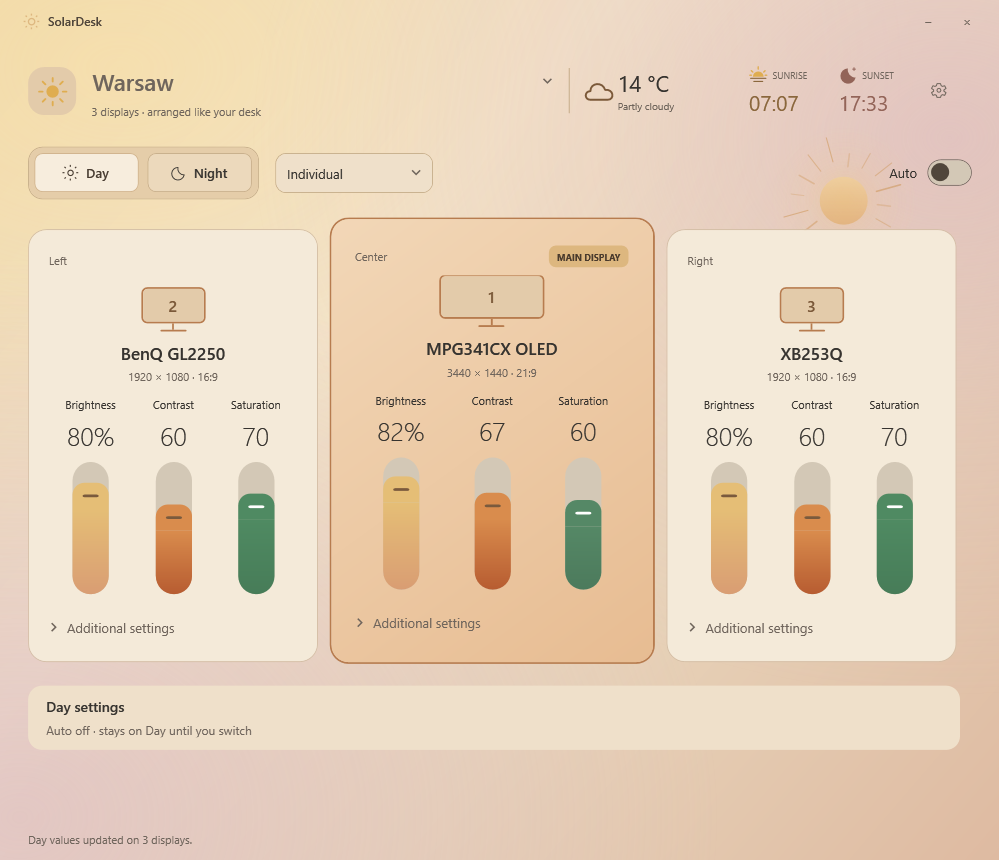
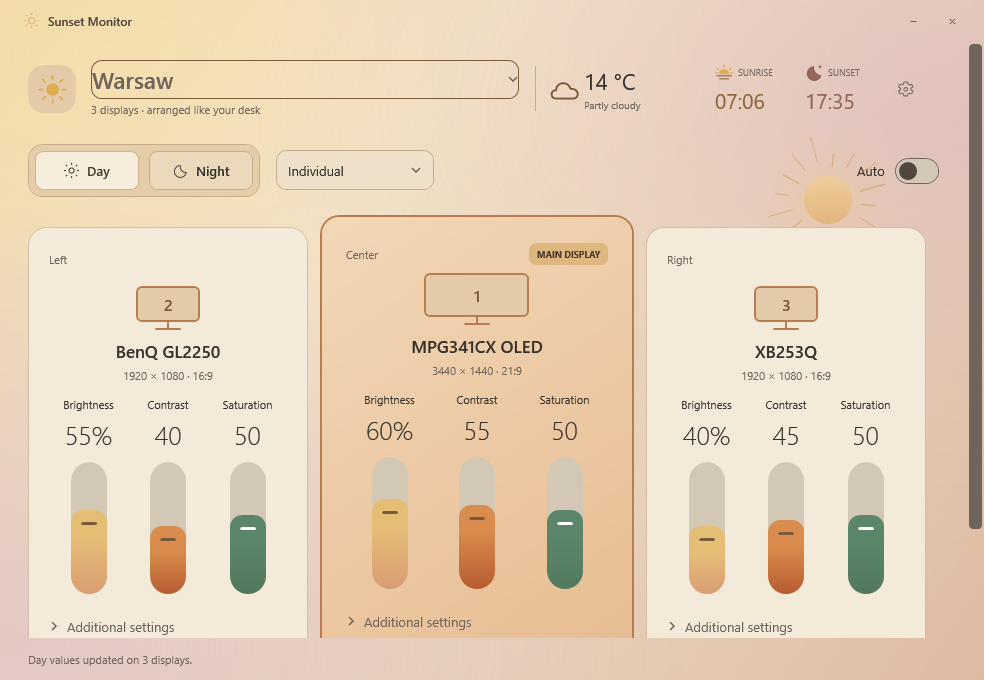
Refresh Sunset Monitor download links and screenshots

diff --git a/README.md b/README.md
@@ -2,11 +2,11 @@
 
 Your monitors, in sync with the sun. Sunset Monitor (formerly SolarDesk) is a Windows tray app with separate Day and Night profiles, smooth sunrise/sunset transitions, and controls for multiple displays.
 
-<a href="https://github.com/WojtekMR3/SolarDesk/releases/download/v2.9.6/SolarDesk-2.9.6-win-x64.zip">
+<a href="https://github.com/WojtekMR3/SunsetMonitor/releases/download/v2.9.7/SunsetMonitor-2.9.7-win-x64.zip">
   <img src="docs/download-windows.svg" alt="Download for Windows" width="280" height="60">
 </a>
 
-**Free · Windows 10 / 11 (64-bit) · Version 2.9.6**
+**Free · Windows 10 / 11 (64-bit) · Version 2.9.7**
 
 Click the button to download the ZIP. Right-click the downloaded file, choose **Extract All**, then open **SunsetMonitor.exe** inside the extracted folder.
 
@@ -20,7 +20,7 @@ Screenshots use simulated monitors and a demo location.
 
 ## Install
 
-1. Click **[Download for Windows](https://github.com/WojtekMR3/SolarDesk/releases/download/v2.9.6/SolarDesk-2.9.6-win-x64.zip)** to download the app directly.
+1. Click **[Download for Windows](https://github.com/WojtekMR3/SunsetMonitor/releases/download/v2.9.7/SunsetMonitor-2.9.7-win-x64.zip)** to download the app directly.
 2. Right-click the ZIP and choose **Extract All**. Open the extracted `SunsetMonitor` folder and double-click `SunsetMonitor.exe`.
 3. Enable **DDC/CI** in your monitor's on-screen menu if needed.
 4. Choose a city or use Windows location, then set your Day and Night values.
